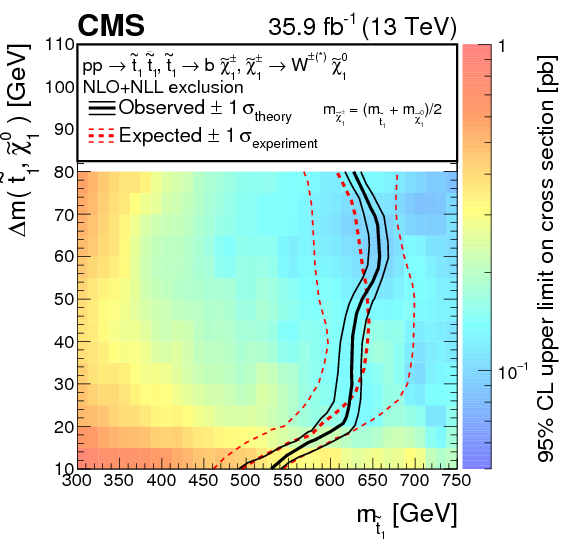
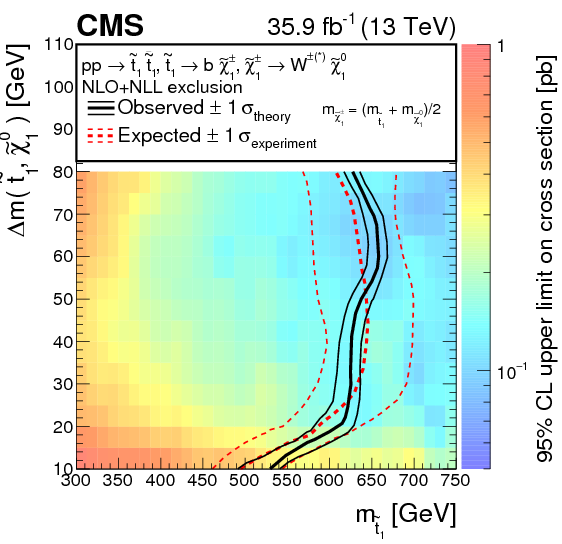
Update limit plots from last analysis and citations

Changed region(s): [[0.0, 0.0312, 0.9982, 1.0], [0.726, 0.5, 0.7562, 0.6562], [0.6957, 0.6562, 0.726, 0.75]]

diff --git a/chapter2.tex b/chapter2.tex
@@ -519,12 +519,12 @@ With the comprehensive analysis that was performed in 2016, we have various limi
 
 \begin{figure}
 \centering
-	\includegraphics[width=0.50\textwidth]{T2tt_limits_summary_cms.pdf}
- 	\caption[T2tt Limits for all decay modes]{Limits for the mass parameter space for T2tt decays using results from all the analysis in CMS. With a current limit of 800 GeV to 1.1 \TeV{} for a minimal neutralino mass.}
+	\includegraphics[width=0.50\textwidth]{T2tt_limits_summary_cms.png}
+ 	\caption[T2tt Limits for all decay modes]{Limits for the mass parameter space for T2tt decays using results from all the analysis in CMS. With a current limit of 1.05 TeV to 1.2 TeV for a minimal neutralino mass \cite{noauthor_https://twiki.cern.ch/twiki/bin/view/cmspublic/physicsresultssus_nodate}.}
  	\label{T2ttCMSAll} 
 \end{figure}
 
-From the Fig. \ref{T2ttANLimits}, \ref{T2bWANLimits}, \ref{T2tbANLimits}, \ref{T2fbdANLimits}, \ref{T2bWCANLimits}, and \ref{T2ttCMSAll}, we know that we are able to exclude a large mass range for the \st{} and \neutralino{}. Since this is for a luminosity of 36.8 \fb, we can expect improved limits with all of the data from Run 2, which is 137 \fb. The new version of the analysis also has a redesigned search region to allow for more sensitive results, while also improving various object definitions.
+From the Fig. \ref{T2ttANLimits}, \ref{T2bWANLimits}, \ref{T2tbANLimits}, \ref{T2fbdANLimits}, \ref{T2bWCANLimits}, and \ref{T2ttCMSAll} \cite{sirunyan_search_2017, noauthor_https://twiki.cern.ch/twiki/bin/view/cmspublic/physicsresultssus_nodate}, we know that we are able to exclude a large mass range for the \st{} and \neutralino{}. Since this is for a luminosity of 36.8 \fb, we can expect improved limits with all of the data from Run 2, which is 137 \fb. The new version of the analysis also has a redesigned search region to allow for more sensitive results, while also improving various object definitions.
 
 \section{What are we looking for? And why?}
 As discussed in Sec. \ref{sec:SM}, the SM is a robust theory that is useful for describing the iterations of visable matter in the universe. It has been through many robust tests, while also able to make many predictions. Unfortunately, we have seen that a few unknowns, such as: dark matter, the hierarchy problem, and a possible GUT, are currently unexplained. We then showed that a possible solution to these is SUSY, Sec. \ref{sec:SUSY}, which provides a good dark matter candidate, LSP, which allows for the convergence of the EM, Weak, and Strong force at large energy scales, and allows the Higgs mass to be renormalizable without fine tuning. 
